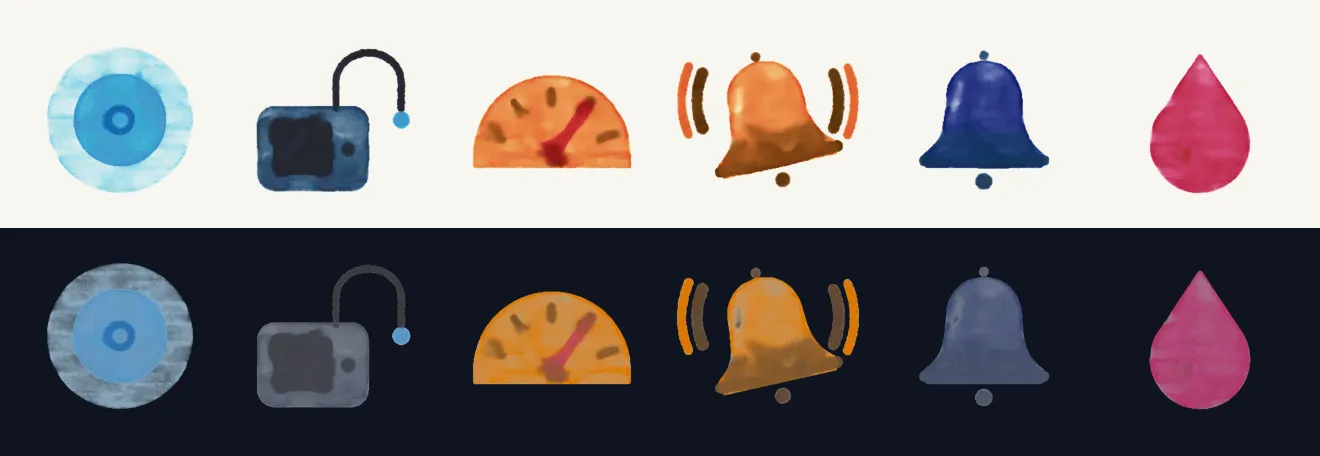
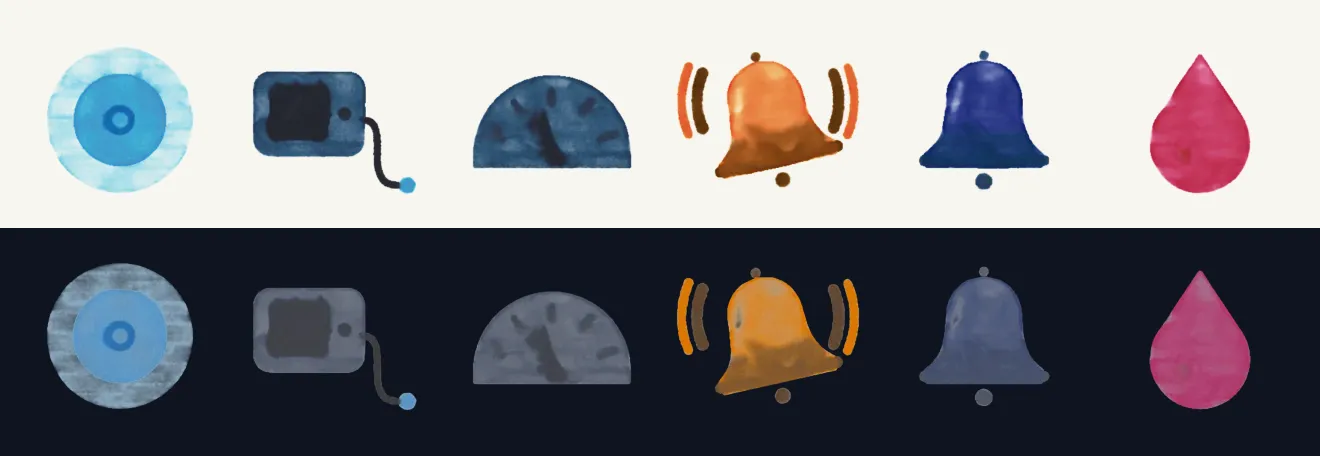
fix(watercolour): trail the pump's tube and calm the glucose gauge
The pump's tube looped over the top and read as a padlock shackle; it now
leaves the side and trails down to the infusion site. The gauge moves to
slate with a shadow needle just left of upright, since ember with a red
needle swung right read as a high reading on a neutral units step.

Claude-Session: https://claude.ai/code/session_01RKL3tmvxAfNJWyhXurBE4m

diff --git a/packages/water-ui/src/api/assets.ts b/packages/water-ui/src/api/assets.ts
@@ -66,7 +66,7 @@ export const DEFAULT_PALETTE: Record<string, PaletteId> = {
   'phone': 'slate',
   'cgm-sensor': 'water',
   'insulin-pump': 'slate',
-  'glucose-gauge': 'ember',
+  'glucose-gauge': 'slate',
   'ringing-bell': 'ember',
   'lucide-database': 'slate',
   'lucide-server': 'slate',

diff --git a/crates/water-ui-infra/src/authoring/icons_devices.rs b/crates/water-ui-infra/src/authoring/icons_devices.rs
@@ -95,8 +95,8 @@ pub(super) fn cgm_sensor(style: &Style, palette: &Palette) -> Scene {
     )
 }
 
-/// A body wider than it is tall with a screen in it, and a tube that loops
-/// up out of its top to the infusion site. The tube is what separates it
+/// A body wider than it is tall with a screen in it, and a tube that trails
+/// out of its side to the infusion site. The tube is what separates it
 /// from a phone or a pager, so it is drawn at every size.
 pub(super) fn insulin_pump(style: &Style, palette: &Palette) -> Scene {
     let frame = Frame::new(SQUARE);
@@ -104,13 +104,13 @@ pub(super) fn insulin_pump(style: &Style, palette: &Palette) -> Scene {
     let shadow = role(palette, PigmentRole::Shadow);
     let accent = role(palette, PigmentRole::Accent);
     let mut p = Painting::new(style.ticks(380));
-    let body = Shape::rounded_rect(0.1, 0.44, 0.66, 0.86, 0.08);
+    let body = Shape::rounded_rect(0.08, 0.26, 0.64, 0.68, 0.08);
     stencil_body(&mut p, &frame, style, &body, 0.012, base, 0.4, 0.0);
     p.glaze(0.36, 0.09).clear_mask(0.36);
-    let (top, bottom) = (0.53f32, 0.77);
+    let (top, bottom) = (0.35f32, 0.59);
     p.mask(
         0.38,
-        Shape::rounded_rect(0.18, 0.52, 0.47, 0.78, 0.03).polygon(&frame),
+        Shape::rounded_rect(0.16, 0.34, 0.45, 0.6, 0.03).polygon(&frame),
         0.006,
     );
     p.at(
@@ -127,14 +127,14 @@ pub(super) fn insulin_pump(style: &Style, palette: &Palette) -> Scene {
     if style.fine() {
         p.at(
             0.56,
-            lift(frame.line(0.23, 0.72, 0.33, 0.56), 0.025, 0.5, 0.6),
+            lift(frame.line(0.21, 0.54, 0.31, 0.38), 0.025, 0.5, 0.6),
         );
     }
     p.glaze(0.62, 0.08).clear_mask(0.62);
     p.at(
         0.62,
         brush(
-            vec![frame.pt(0.565, 0.65)],
+            vec![frame.pt(0.545, 0.47)],
             0.04,
             shadow,
             style.conc(0.85),
@@ -142,14 +142,19 @@ pub(super) fn insulin_pump(style: &Style, palette: &Palette) -> Scene {
             0.45,
         ),
     );
-    let (lx, rx, bend, rise) = (0.5f32, 0.84f32, 0.3f32, 0.15f32);
-    let (mid, half) = ((lx + rx) * 0.5, (rx - lx) * 0.5);
-    let tube: Vec<_> = std::iter::once((lx, 0.44))
-        .chain((0..=16).map(|i| {
-            let a = PI + i as f32 / 16.0 * PI;
-            (mid + half * a.cos(), bend + rise * a.sin())
-        }))
-        .chain(std::iter::once((rx, 0.44)))
+    // Out of the side and away in one bend, so it trails rather than
+    // closing over the top into a handle.
+    let [a, b, c, d] = [(0.64f32, 0.5f32), (0.8, 0.5), (0.62, 0.84), (0.82, 0.84)];
+    let tube: Vec<_> = (0..=16)
+        .map(|i| {
+            let t = i as f32 / 16.0;
+            let u = 1.0 - t;
+            let w = [u * u * u, 3.0 * u * u * t, 3.0 * u * t * t, t * t * t];
+            (
+                w[0] * a.0 + w[1] * b.0 + w[2] * c.0 + w[3] * d.0,
+                w[0] * a.1 + w[1] * b.1 + w[2] * c.1 + w[3] * d.1,
+            )
+        })
         .map(|(x, y)| frame.pt(x, y))
         .collect();
     p.at(
@@ -166,7 +171,7 @@ pub(super) fn insulin_pump(style: &Style, palette: &Palette) -> Scene {
     p.at(
         0.74,
         brush(
-            vec![frame.pt(0.84, 0.5)],
+            vec![frame.pt(0.87, 0.84)],
             if style.fine() { 0.05 } else { 0.06 },
             accent,
             style.conc(0.8),
@@ -186,12 +191,12 @@ pub(super) fn insulin_pump(style: &Style, palette: &Palette) -> Scene {
 
 /// A half dial with ticks round its arc and a needle from the pivot: a
 /// reading on a scale, for choosing the units glucose is shown in. The needle
-/// is drawn last and darkest so the eye lands on it.
+/// is drawn last and darkest so the eye lands on it, and sits just left of
+/// upright: swung right it reads as a high reading.
 pub(super) fn glucose_gauge(style: &Style, palette: &Palette) -> Scene {
     let frame = Frame::new(SQUARE);
     let base = role(palette, PigmentRole::BaseWash);
     let shadow = role(palette, PigmentRole::Shadow);
-    let accent = role(palette, PigmentRole::Accent);
     let (cx, cy, r) = (0.5f32, 0.68f32, 0.4f32);
     let mut p = Painting::new(style.ticks(360));
     let dial = Shape(
@@ -220,26 +225,27 @@ pub(super) fn glucose_gauge(style: &Style, palette: &Palette) -> Scene {
                 ),
                 if style.fine() { 0.02 } else { 0.03 },
                 shadow,
-                style.conc(0.6),
+                style.conc(0.4),
                 style.water(0.22),
                 0.5,
             ),
         );
     }
-    let needle = PI + PI * 0.7;
+    p.glaze(0.62, 0.08);
+    let needle = PI + PI * 0.42;
     p.at(
         0.64,
         tapered(
             frame.line(
                 cx,
                 cy,
-                cx + needle.cos() * r * 0.78,
-                cy + needle.sin() * r * 0.78,
+                cx + needle.cos() * r * 0.54,
+                cy + needle.sin() * r * 0.54,
             ),
-            (0.036, 0.014),
-            accent,
-            style.conc(1.0),
-            style.water(0.3),
+            (0.04, 0.016),
+            shadow,
+            style.conc(1.6),
+            style.water(0.18),
             0.4,
         ),
     );

diff --git a/crates/water-ui-infra/tests/mask_hashes.rs b/crates/water-ui-infra/tests/mask_hashes.rs
@@ -40,10 +40,10 @@ fn combined(detail: DetailLevel) -> u64 {
 #[test]
 fn catalogue_mask_hashes_match_the_snapshot() {
     let expected: [(&str, u64); 4] = [
-        ("small", 0xbe596d9970036ae1),
-        ("medium", 0x3704b09bf03a0019),
-        ("large", 0xabaf6167fc97ba2f),
-        ("extralarge", 0x398dcb235946c6fa),
+        ("small", 0x15a10a9ce5dbc7f9),
+        ("medium", 0xc21af120d2ad4845),
+        ("large", 0x3562e4c2097d4f2b),
+        ("extralarge", 0x76364a7572a1ca46),
     ];
     for detail in DetailLevel::ALL {
         let want = expected
